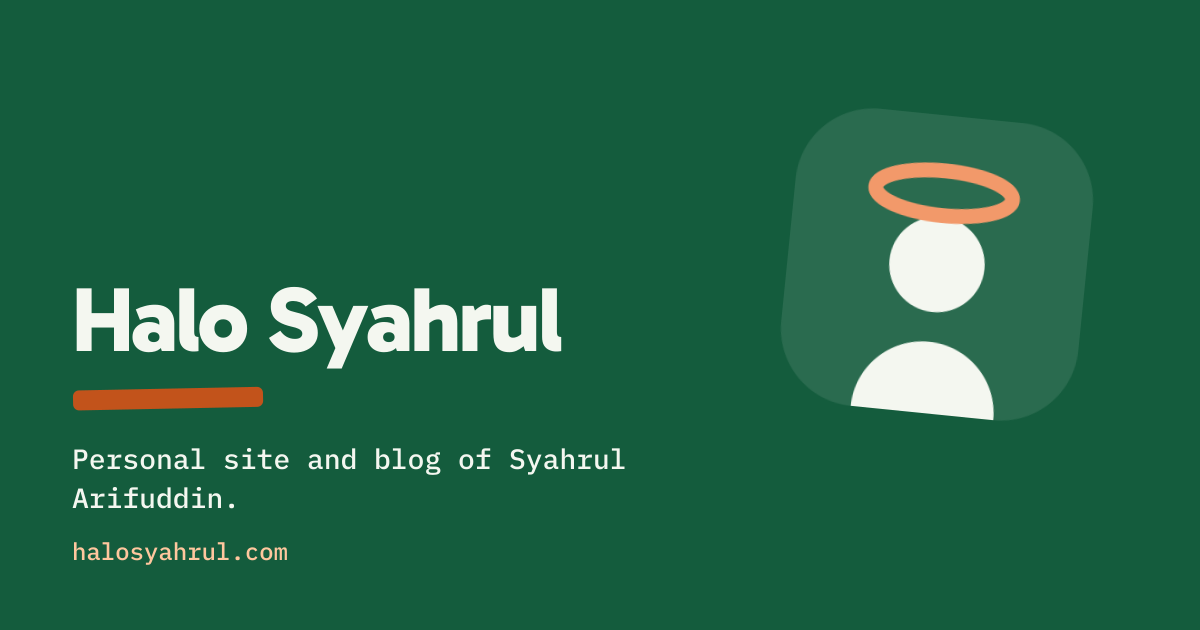
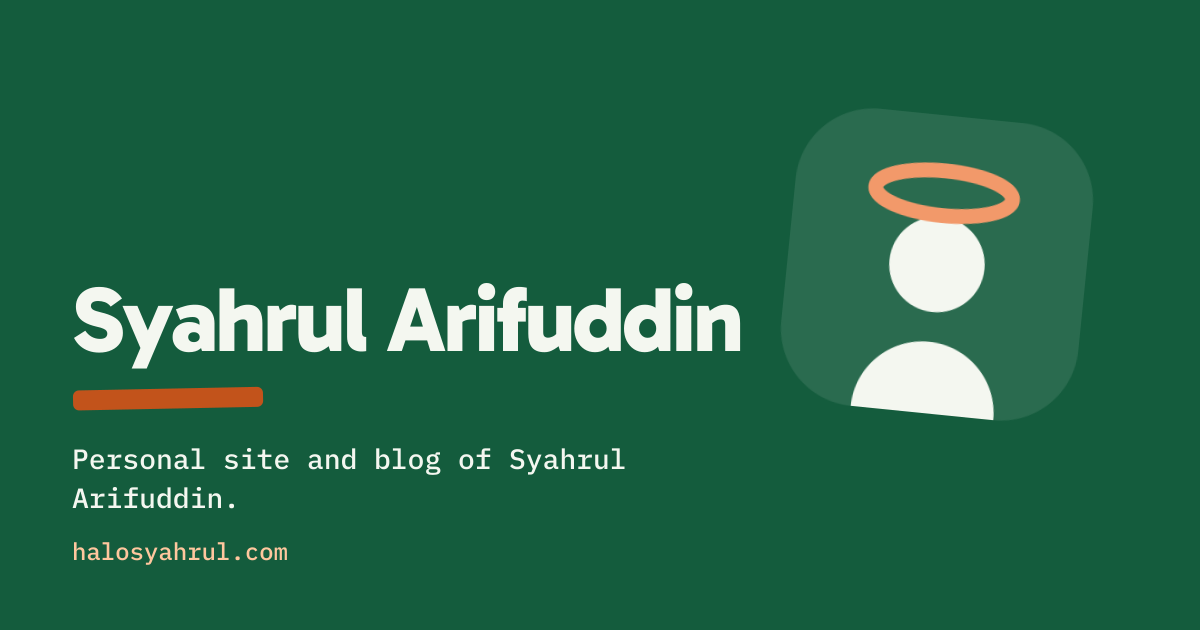
fix(branding): use full name in title and footer

Changed region(s): [[0.0617, 0.4524, 0.6167, 0.6032]]

diff --git a/src/configs/sites.ts b/src/configs/sites.ts
@@ -2,7 +2,7 @@ import { NODE_ENV } from './envs';
 
 export const IS_DEV = NODE_ENV !== 'production';
 
-export const SITE_NAME = 'Halo Syahrul';
+export const SITE_NAME = 'Syahrul Arifuddin';
 /** text of the logo in the header */
 export const SITE_DOMAIN = 'halosyahrul.com';
 export const PRODUCTION_URL = 'https://halosyahrul.com';
